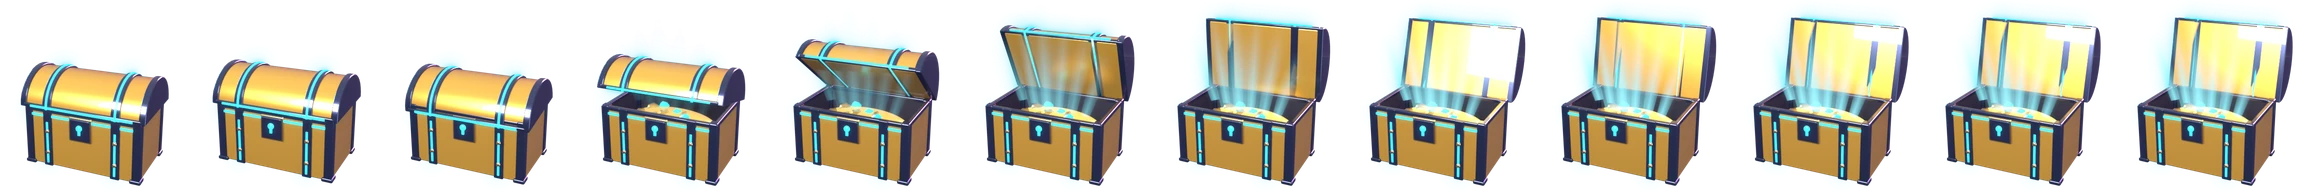
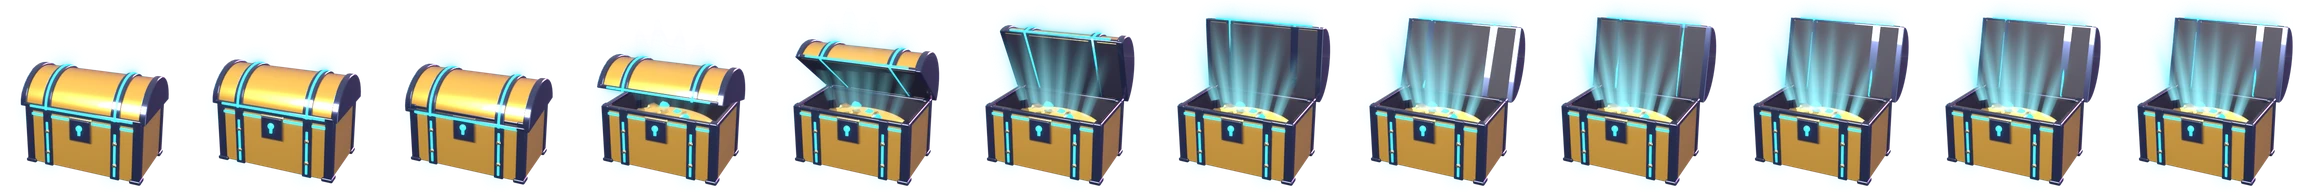
Íconos 3D de Blender en la interfaz
- tools/blender/ui_icons.py: moneda, diamante, orbe y estrella (24 fotogramas girando), cofres con animación de
  apertura (12) y medallas, renderizados con brillo de neón en public/ui.
- Cartera, precios, premios y estrellas usan los renders (giran en la cartera y al pasar el ratón); los cofres se
  mecen cuando están listos y se abren animados; los logros llevan medalla de bronce, plata, oro o candado.
- La PWA precarga también webp y svg.

diff --git a/src/ui.css b/src/ui.css
@@ -393,3 +393,29 @@ kbd { font: inherit; font-weight: 700; border: 1px solid rgba(255, 255, 255, 0.2
 .screen.enter .title .emblem { animation: emblemIn 0.6s cubic-bezier(0.25, 1.6, 0.45, 1) both, float 3.4s 0.6s ease-in-out infinite; }
 @keyframes emblemIn { from { opacity: 0; transform: translateX(-40px) rotate(-30deg) scale(0.6); } to { opacity: 1; transform: none; } }
 @media (max-height: 520px) { .title .emblem { display: none; } }
+
+/* ── Íconos 3D de Blender (public/ui): monedas, diamantes, orbes, estrellas, cofres y medallas ── */
+.cur { display: inline-block; width: 1.45em; height: 1.45em; vertical-align: -0.38em; flex: none; background-repeat: no-repeat; background-size: 2400% 100%; background-position: 0 0; }
+.cur-coin { background-image: url(/ui/coin.webp); }
+.cur-diamond { background-image: url(/ui/diamond.webp); }
+.cur-orb { background-image: url(/ui/orb.webp); }
+.cur-star { background-image: url(/ui/star.webp); }
+/* giran en la cartera y el contador del garaje, al pasar el ratón por un artículo y al contar */
+.wallet .cur, .coin-count .cur, .shop-item:hover .cur, .counting ~ .cur, .done-reward .cur { animation: curSpin 2.6s steps(23, jump-none) infinite; }
+.wallet span:nth-child(2) .cur { animation-delay: -0.6s; } .wallet span:nth-child(3) .cur { animation-delay: -1.2s; } .wallet span:nth-child(4) .cur { animation-delay: -1.8s; }
+@keyframes curSpin { from { background-position: 0% 0; } to { background-position: 100% 0; } }
+.wallet span { gap: 3px; }
+.coin-count .cur { width: 1.6em; height: 1.6em; }
+.stars .cur { width: 1.25em; height: 1.25em; margin: 0 -2px; }
+.chest-sprite { display: block; width: 104px; height: 104px; background-repeat: no-repeat; background-size: 1200% 100%; background-position: 0 0; }
+.chest-sprite.small { background-image: url(/ui/chest_small.webp); }
+.chest-sprite.big { background-image: url(/ui/chest_big.webp); }
+.chest.ready .chest-sprite { animation: wobble 1.6s ease-in-out infinite; }
+.chest-sprite.opening { animation: chestOpen 0.8s steps(11, jump-none) forwards !important; }
+@keyframes chestOpen { from { background-position: 0% 0; } to { background-position: 100% 0; } }
+@keyframes wobble { 0%, 70%, 100% { transform: rotate(0); } 76% { transform: rotate(-5deg) scale(1.04); } 84% { transform: rotate(5deg) scale(1.04); } 92% { transform: rotate(-2deg); } }
+.medal { display: block; width: 44px; height: 44px; background-size: contain; background-repeat: no-repeat; background-position: center; }
+.medal.gold { background-image: url(/ui/medal_gold.webp); } .medal.silver { background-image: url(/ui/medal_silver.webp); }
+.medal.bronze { background-image: url(/ui/medal_bronze.webp); } .medal.locked { background-image: url(/ui/medal_locked.webp); }
+.ach.got .medal { animation: medalShine 4s ease-in-out infinite; }
+@keyframes medalShine { 0%, 85%, 100% { filter: none; } 92% { filter: brightness(1.35) drop-shadow(0 0 6px rgba(255, 210, 58, 0.7)); } }

diff --git a/src/meta.js b/src/meta.js
@@ -216,7 +216,7 @@ function renderRewards(tab) {
   } else if (t === 'cofres') {
     html = '<div class="chests">' + Object.entries(CHESTS).map(([k, c]) => {
       const left = chestLeft(k);
-      return `<div class="chest${left ? '' : ' ready'}"><div class="chest-ico">${ico(k === 'big' ? 'gift' : 'chest')}</div><b>${c.name}</b>` +
+      return `<div class="chest${left ? '' : ' ready'}"><i class="chest-sprite ${k === 'big' ? 'big' : 'small'}" data-sprite="${k}"></i><b>${c.name}</b>` +
         `<span>${ico('orb')} ${c.orbs[0]}–${c.orbs[1]} ${c.diaChance < 1 ? 'y a veces' : 'y'} ${ico('diamond')} ${c.dia[0] || 1}–${c.dia[1]}</span>` +
         (left ? `<span class="wait" data-wait="${k}">Abre en ${fmtTime(left)}</span>` : `<button class="btn small" data-chest="${k}">Abrir</button>`) + '</div>';
     }).join('') + '</div>';
@@ -230,7 +230,7 @@ function renderRewards(tab) {
     const n = Object.keys(save.ach).length;
     html = `<p class="rw-note">${n} de ${ACH.length} logros</p><div class="achs">` + ACH.map(([id, name, desc, , r]) => {
       const got = !!save.ach[id];
-      return `<div class="ach${got ? ' got' : ''}"><span class="ico">${ico(got ? 'trophy' : 'lock')}</span><div><b>${name}</b><span>${desc}</span></div><span class="reward">${r.orbs ? ico('orb') + ' ' + r.orbs : ico('diamond') + ' ' + r.diamonds}</span></div>`;
+      return `<div class="ach${got ? ' got' : ''}"><i class="medal ${got ? (r.diamonds ? 'gold' : r.orbs >= 100 ? 'silver' : 'bronze') : 'locked'}"></i><div><b>${name}</b><span>${desc}</span></div><span class="reward">${r.orbs ? ico('orb') + ' ' + r.orbs : ico('diamond') + ' ' + r.diamonds}</span></div>`;
     }).join('') + '</div>';
   }
   $('rwBody').innerHTML = html;
@@ -248,7 +248,13 @@ function renderRewards(tab) {
     save.cos[COS_KEY[it.cat]] = itemValue(it.id);
     persist(); applyCosmetics(); checkAchievements(); renderRewards();
   }));
-  $('rwBody').querySelectorAll('[data-chest]').forEach((b) => b.addEventListener('click', () => { openChest(b.dataset.chest); renderRewards(); }));
+  // el cofre se abre con su animación (12 fotogramas de Blender) y luego se dan los premios
+  $('rwBody').querySelectorAll('[data-chest]').forEach((b) => b.addEventListener('click', () => {
+    const k = b.dataset.chest, spr = $('rwBody').querySelector(`[data-sprite="${k}"]`);
+    b.disabled = true;
+    if (spr) spr.classList.add('opening');
+    setTimeout(() => { openChest(k); renderRewards(); }, spr ? 820 : 0);
+  }));
   $('rwBody').querySelectorAll('[data-quest]').forEach((b) => b.addEventListener('click', () => {
     const q = save.quests.list[Number(b.dataset.quest)];
     if (q.claimed) return;

diff --git a/src/game.js b/src/game.js
@@ -18,7 +18,9 @@ const DESIGNS = {
   robot: styles('robot'), spider: styles('arana'), swing: styles('swing'),
 };
 // Ícono SVG del sprite de index.html (sustituye a los emojis).
-const ico = (n) => `<svg class="i"><use href="#i-${n}"/></svg>`;
+// Las monedas, diamantes, orbes y estrellas son renders 3D de Blender (public/ui, tiras de 24 fotogramas que giran).
+const CUR = new Set(['coin', 'diamond', 'orb', 'star']);
+const ico = (n) => (CUR.has(n) ? `<i class="cur cur-${n}"></i>` : `<svg class="i"><use href="#i-${n}"/></svg>`);
 // Miniatura del garaje: posición en public/icons/garaje.webp (12 estilos × 8 modos, hecha con Blender).
 const THUMB_ROW = { cube: 0, ship: 1, ball: 2, ufo: 3, wave: 4, robot: 5, spider: 6, swing: 7 };
 const thumbPos = (mode, k) => `${(k / 11) * 100}% ${(THUMB_ROW[mode] / 7) * 100}%`;

diff --git a/src/index.html b/src/index.html
@@ -111,7 +111,7 @@
   <section class="screen garage-screen" id="garage" hidden>
     <div class="corner left"><button class="icon-btn" id="garageBack" aria-label="Volver"><svg class="i"><use href="#i-back"/></svg></button></div>
     <div class="panel garage">
-      <div class="garage-head"><h2>Garaje</h2><span class="coin-count"><svg class="i"><use href="#i-coin"/></svg> <b id="garageCoins">0</b></span></div>
+      <div class="garage-head"><h2>Garaje</h2><span class="coin-count"><i class="cur cur-coin"></i> <b id="garageCoins">0</b></span></div>
       <div class="tabs" id="garageTabs"></div>
       <div class="designs" id="garageList"></div>
       <div class="garage-colors"><span>Colores</span><div class="swatches" id="garagePalettes"></div></div>

diff --git a/vite.config.js b/vite.config.js
@@ -68,7 +68,7 @@ export default defineConfig({
       workbox: {
         // la página, el código, las fuentes y los modelos se guardan al instalar (juega sin conexión);
         // las canciones se guardan la primera vez que suenan
-        globPatterns: ['**/*.{html,js,css,woff2,png,glb}'],
+        globPatterns: ['**/*.{html,js,css,woff2,png,webp,svg,glb}'],
         globIgnores: ['music/**'],
         maximumFileSizeToCacheInBytes: 8 * 1024 * 1024,
         runtimeCaching: [{

diff --git a/tools/blender/ui_icons.py b/tools/blender/ui_icons.py
@@ -457,7 +457,7 @@ def setup_scene(size, fit, elev, cz=0.0):
 
 # ---------------------------------------------------------------- modelos
 def build_coin(root, jd):
-    gold = mat('oro', (1.0, 0.62, 0.10), 0.22, 1.0, coat=0.6)
+    gold = mat('oro', (1.0, 0.66, 0.14), 0.24, 0.8, coat=0.7, emit=0.18, emit_color=(1.0, 0.6, 0.12))
     deep = mat('oro_oscuro', (0.36, 0.10, 0.006), 0.38, 1.0, coat=0.5)
     shine = mat('oro_logo', (1.0, 0.78, 0.25), 0.16, 1.0, coat=0.8, emit=0.55, emit_color=(1.0, 0.7, 0.2),
                 glow=(0.35, 0.22, 0.04))
@@ -527,11 +527,11 @@ def build_diamond(root, jd):
 
 
 def build_orb(root, jd):
-    core = mat('orbe', (0.05, 0.01, 0.26), 0.35, 0.0, coat=1.0, spec=0.3)
-    facing_emission(core, (0.04, 0.008, 0.2), (0.42, 0.16, 1.0), 1.0, blend=0.6,
-                    noise=(2.6, (0.22, 0.06, 0.7)))
-    GLOW[core.name] = tuple(c * 0.55 for c in VIOLET)
-    ringm = neon('anillo', (0.42, 0.24, 1.0), 1.9)
+    core = mat('orbe', (0.05, 0.01, 0.26), 0.35, 0.0, coat=0.6, spec=0.3)
+    facing_emission(core, (0.07, 0.01, 0.36), (0.42, 0.14, 1.0), 1.0, blend=0.22,
+                    noise=(2.6, (0.18, 0.04, 0.6)))
+    GLOW[core.name] = tuple(c * 0.1 for c in VIOLET)
+    ringm = neon('anillo', (0.36, 0.18, 1.0), 1.5)
     bead_m = neon('cuenta_magenta', MAGENTA, 1.8)
     bead_c = neon('cuenta_cian', CYAN, 1.8)
     uvsphere('orbe', 0.70, (0, 0, 0), root, core)
